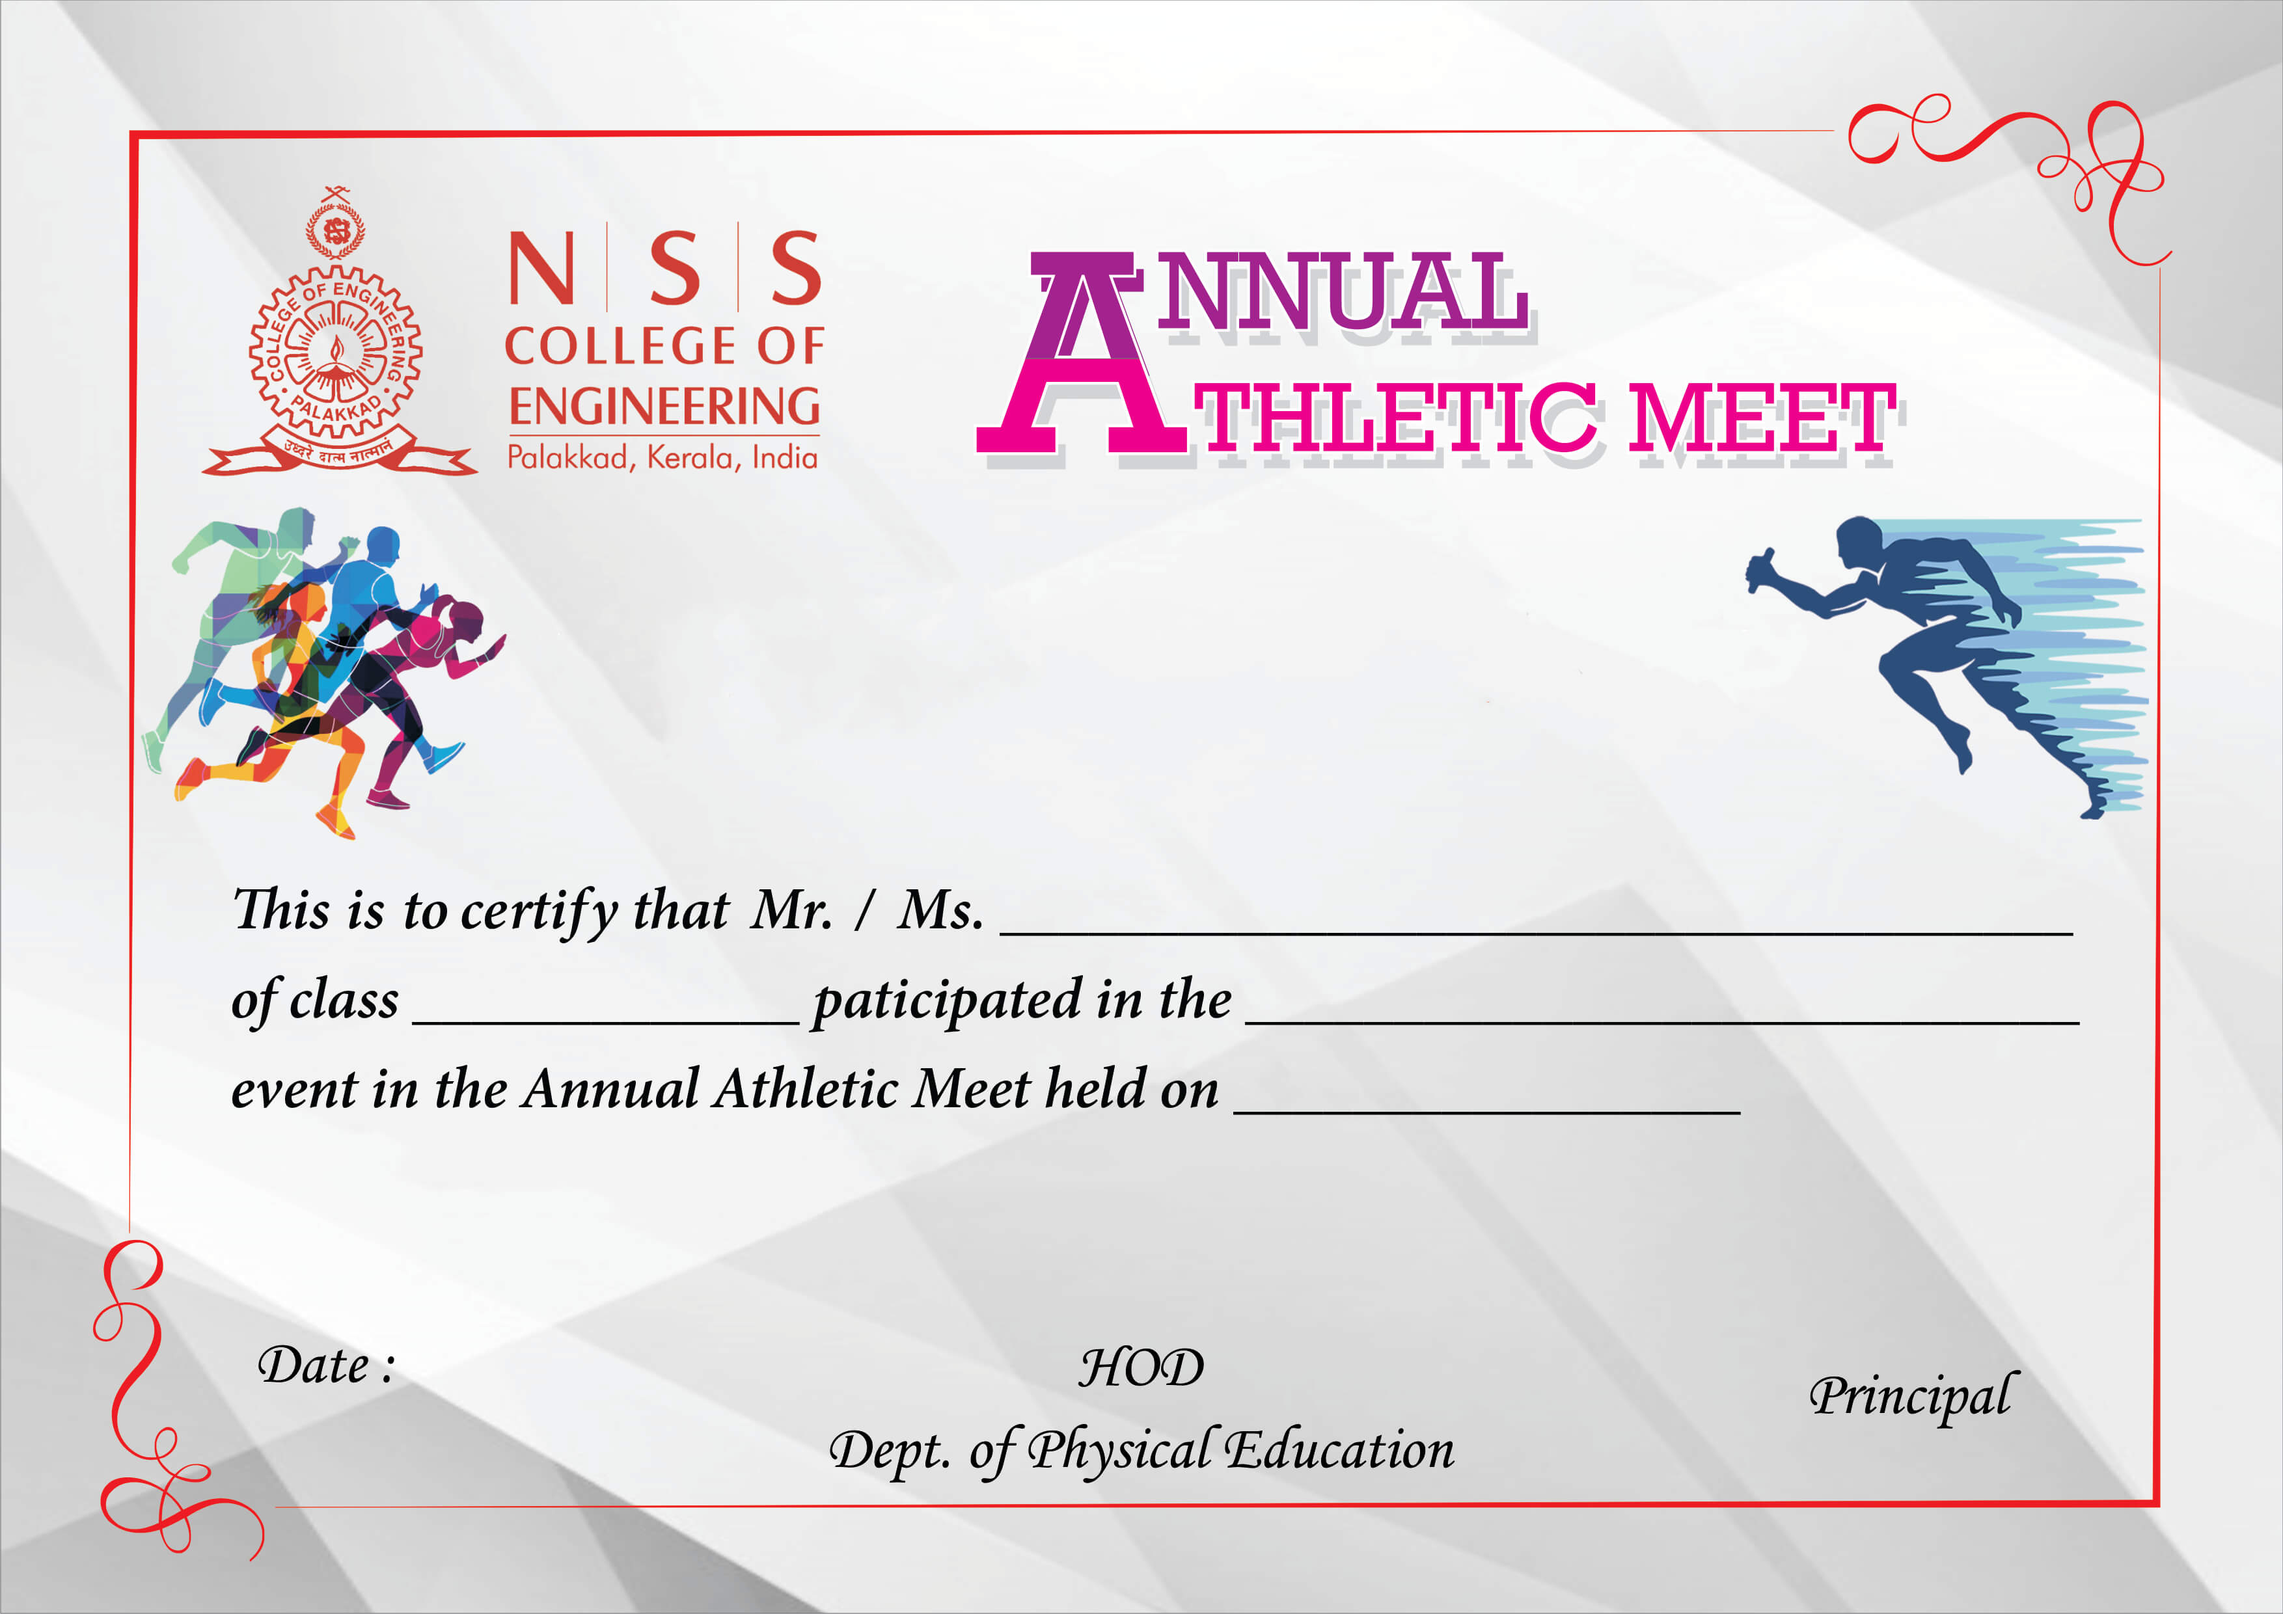
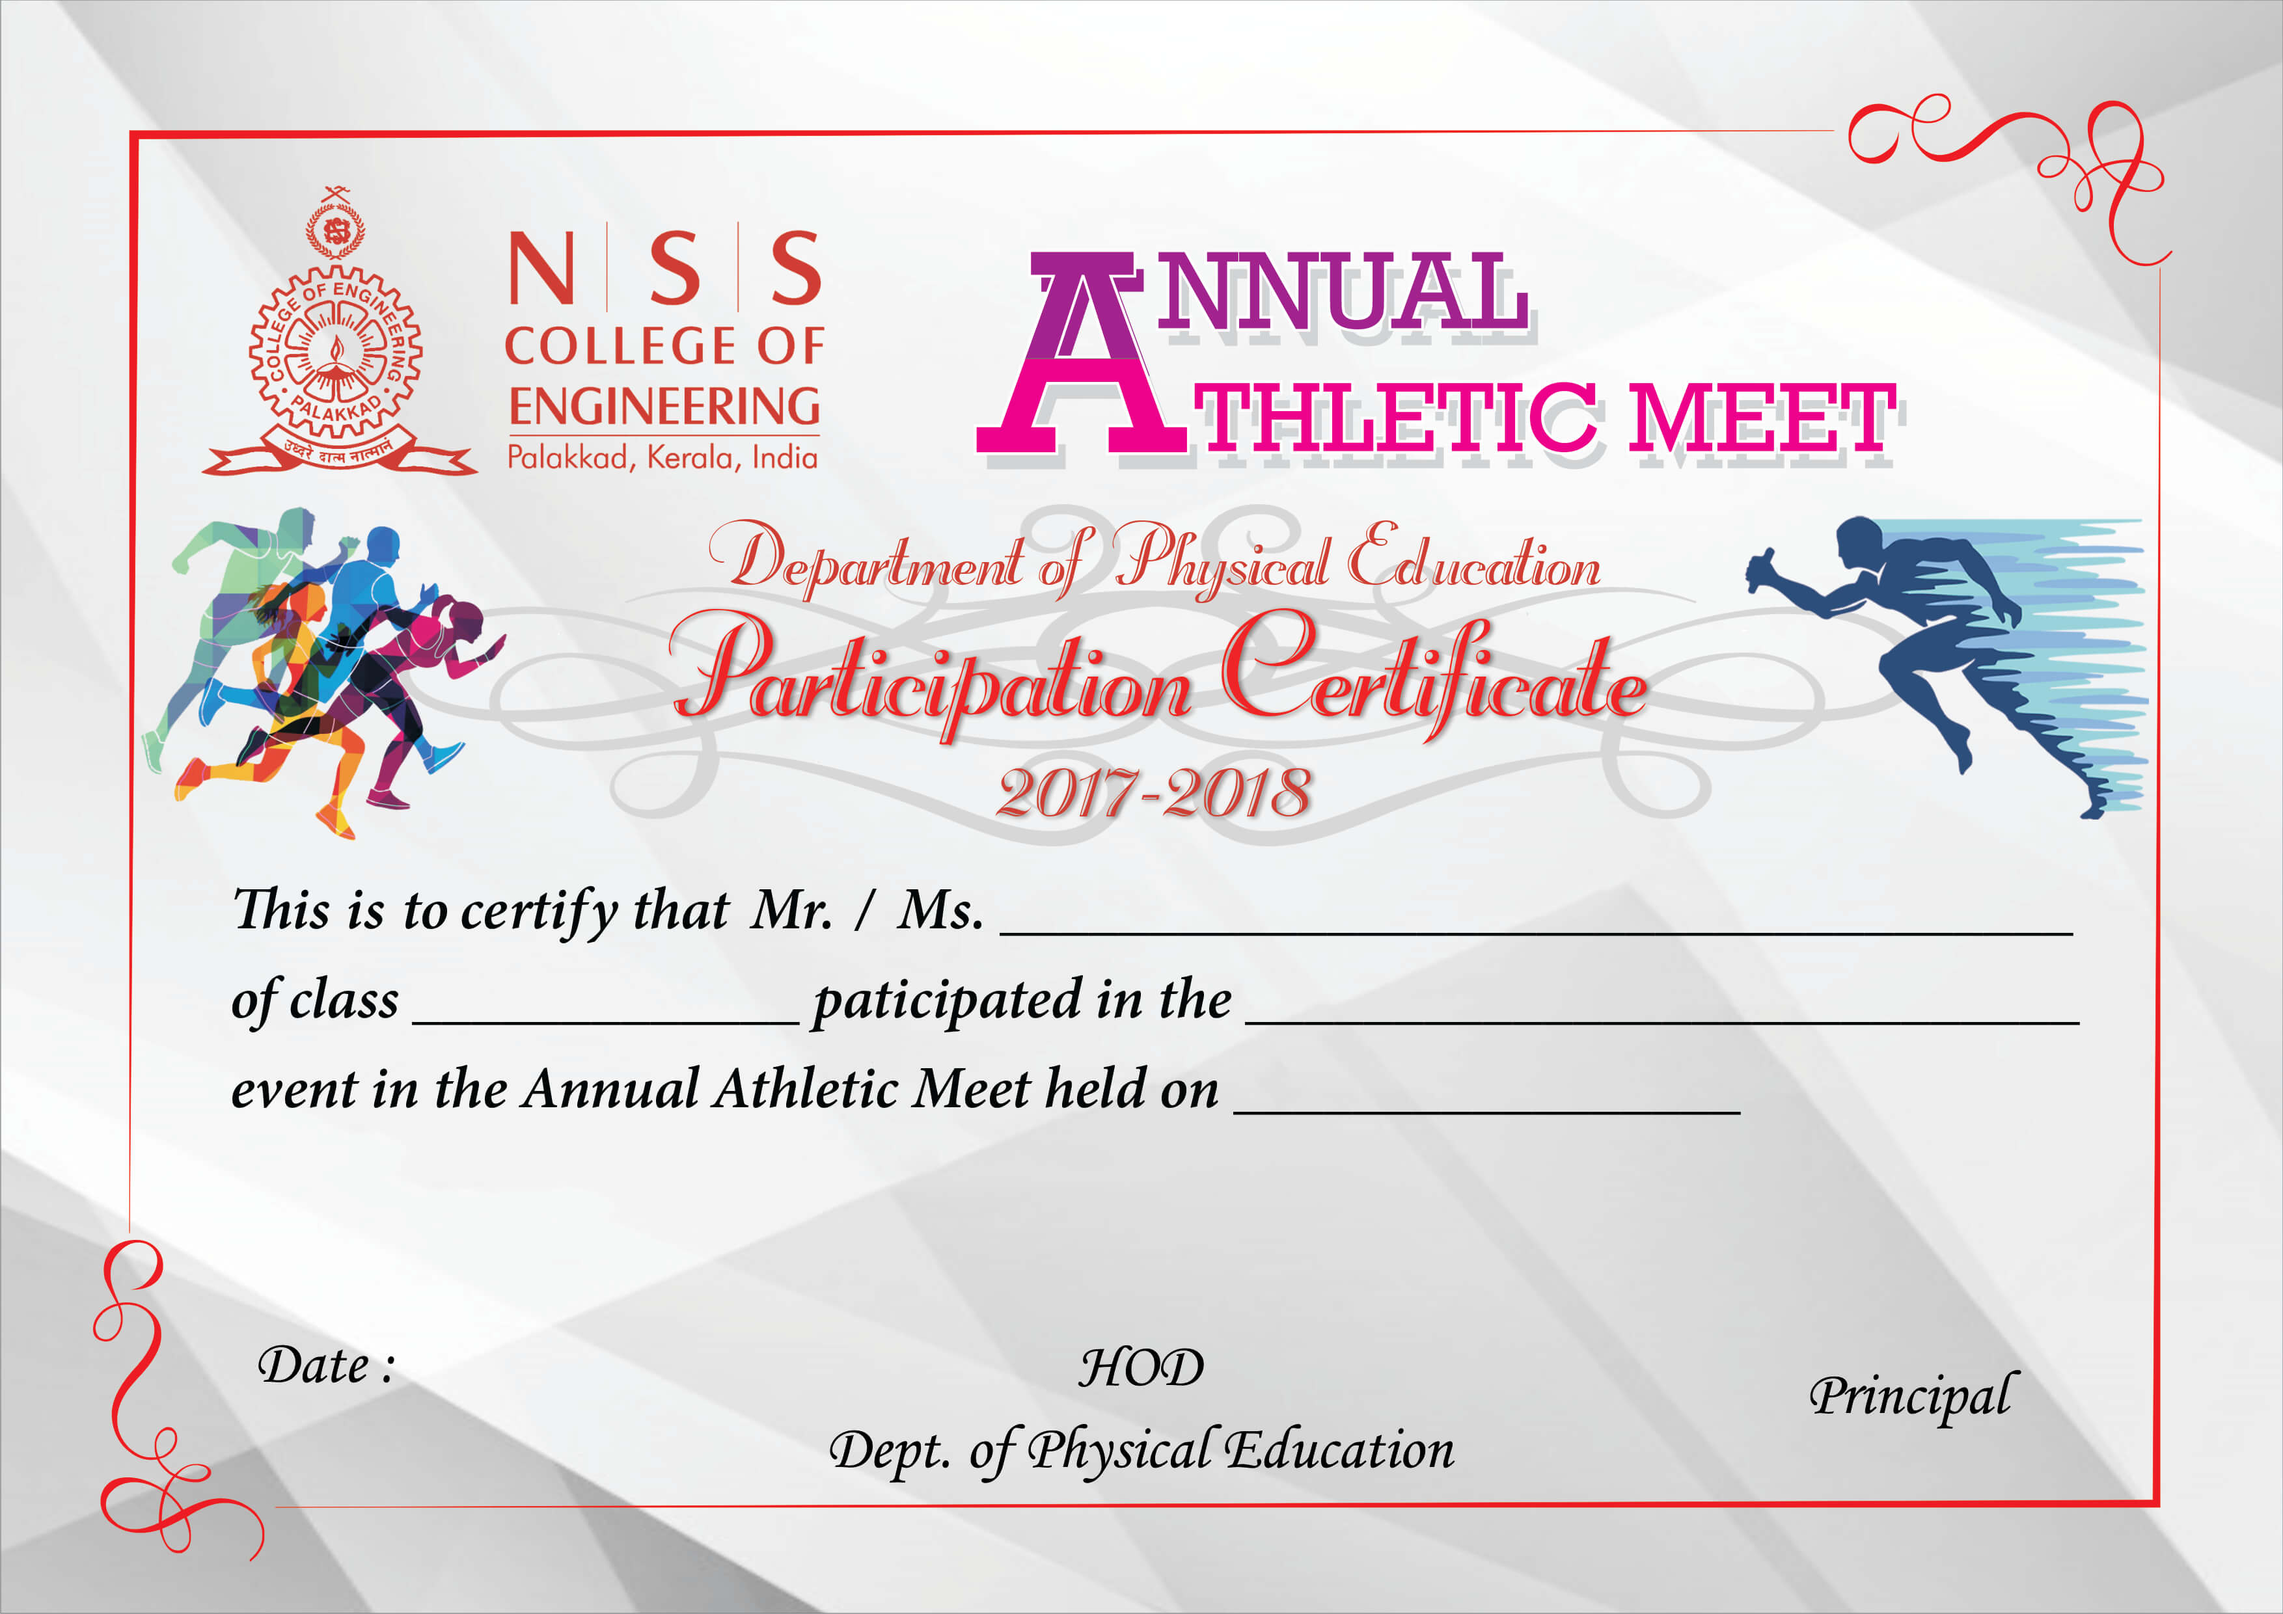
Latest Updated Code

Changed region(s): [[0.1864, 0.3104, 0.8389, 0.5276], [0.8079, 0.3724, 0.8389, 0.4035], [0.7457, 0.3724, 0.7768, 0.4035]]

diff --git a/mail.php b/mail.php
@@ -5,9 +5,9 @@
     $email = $_GET["email"];
    $to = $email;
             $subject = "Participation Certificate";
-            $message = "Hi ".$text1.",<br/><br/>Please check the participation certificate attached along with the mail.<br><br>";
+            $message = "Hi ".$text1.",<br/><br/>Please check the NSS Annual Athletic Meet 2017- 2018 Participation Certificate attached along with the mail.<br><br>";
 
-            $headers = "From: From-Name<from@gmail.com>";
+            $headers = "From: Certificate-Tricodia<support@tricodia.com>";
 // boundary
             $semi_rand = md5(time());
             $mime_boundary = "==Multipart_Boundary_x{$semi_rand}x";

diff --git a/index.php b/index.php
@@ -41,13 +41,9 @@
     <div class="form-group col-md-4">
       <label for="inputSemester">Semester</label>
        <select id="inputSemester" class="form-control" name="sem">
-        <option selected>S1</option>
-        <option>S2</option>
-        <option>S3</option>
+        <option selected>S2</option>
         <option>S4</option>
-        <option>S5</option>
         <option>S6</option>
-        <option>S7</option>
         <option>S8</option>
       </select>
     </div>
